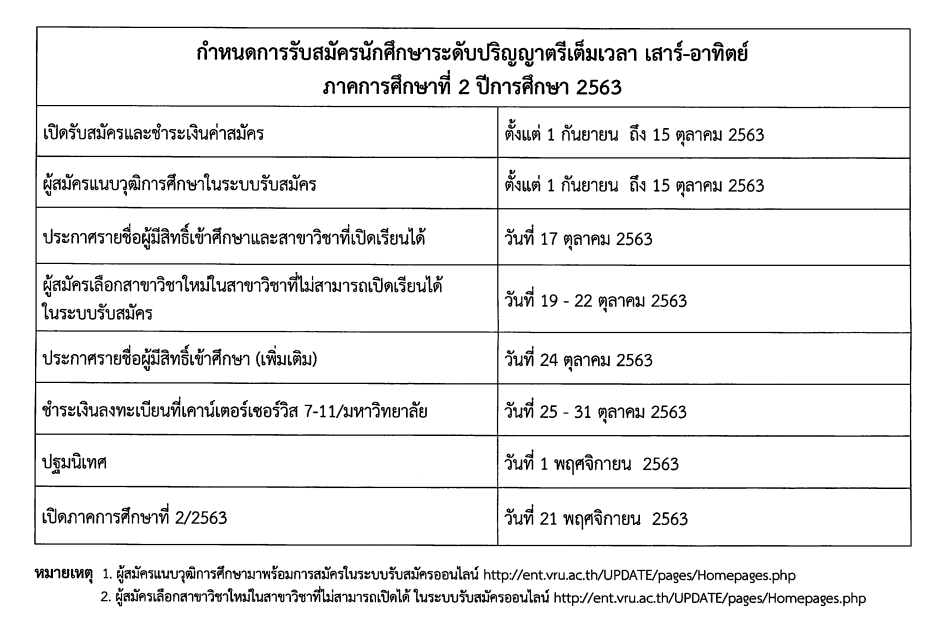
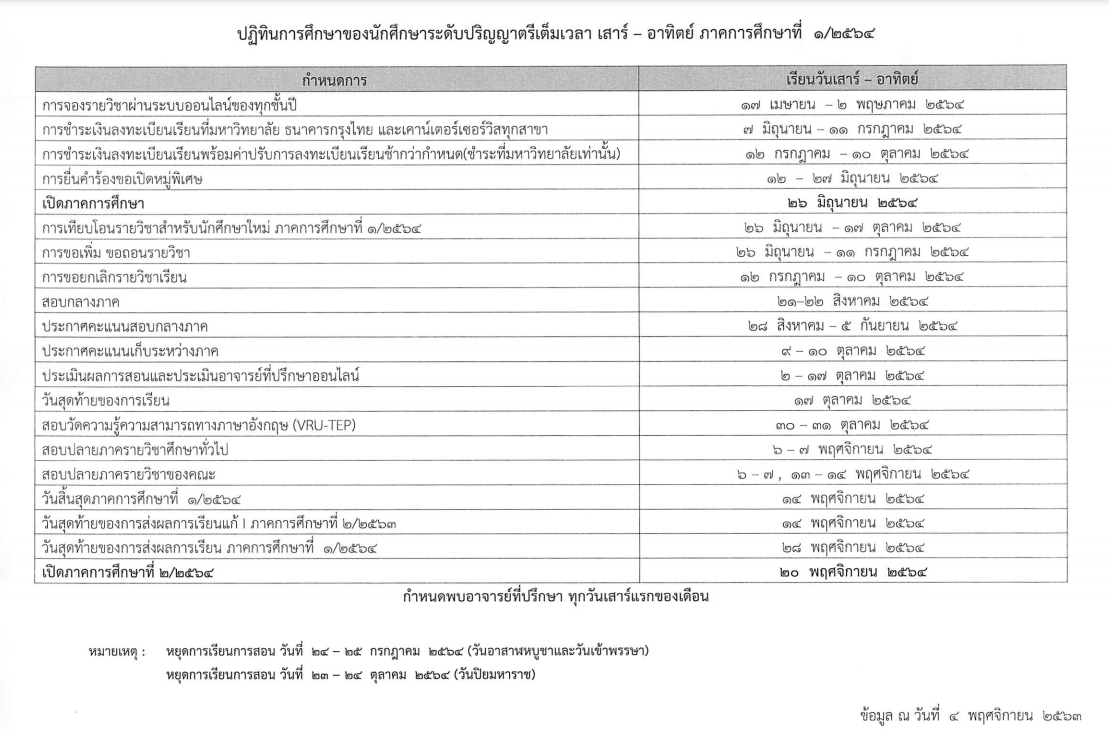
Update TCAS

Changed region(s): [[0.0305, 0.0299, 0.9758, 0.9874]]

diff --git a/tcas.php b/tcas.php
@@ -2,7 +2,7 @@
 $og_url = "http://cs.vru.ac.th/tcas.php";
 $og_type = "article";
 $og_title = "หลักสูตรวิทยาการคอมพิวเตอร์รับสมัครนักศึกษาปริญญาตรี";
-$og_description = "หลักสูตรวิทยาการคอมพิวเตอร์ คณะวิทยาศาสตร์และเทคโนโลยี มหาวิทยาลัยราชภัฏวไลยอลงกรณ์ ในพระบรมราชูปถัมภ์ รับสมัครนักศึกษาปริญญาตรีปีการศึกษา 64 สำหรับเรียนจันทร์-ศุกร์ และปีการศึกษา 63 เทอม 2 สำหรับเรียนเสาร์-อาทิตย์ ตั้งแต่วันนี้เป็นต้นไป  สนใจดูรายละเอียดและกรอกใบสมัครได้ที่นี่ สอบถามข้อมูลการรับสมัครเพิ่มเติม โทรด่วน. 083-138-0981 ";
+$og_description = "หลักสูตรวิทยาการคอมพิวเตอร์ คณะวิทยาศาสตร์และเทคโนโลยี มหาวิทยาลัยราชภัฏวไลยอลงกรณ์ ในพระบรมราชูปถัมภ์ รับสมัครนักศึกษาปริญญาตรีปีการศึกษา 64 สำหรับเรียนจันทร์-ศุกร์ และเรียนเสาร์-อาทิตย์ ตั้งแต่วันนี้เป็นต้นไป  สนใจดูรายละเอียดและกรอกใบสมัครได้ที่นี่ สอบถามข้อมูลการรับสมัครเพิ่มเติม โทรด่วน. 083-138-0981 ";
 $og_image = "http://cs.vru.ac.th/images/tcas/pr-2020-05-14.jpg";
 ?>
 
@@ -19,7 +19,7 @@ $og_image = "http://cs.vru.ac.th/images/tcas/pr-2020-05-14.jpg";
     
     <img class="img-thumbnail" src="images/tcas/pr-2020-05-14.jpg" width="100%" > 
     <p class="mt-4" style="font-size : 1.3rem;">
-        หลักสูตรวิทยาการคอมพิวเตอร์ คณะวิทยาศาสตร์และเทคโนโลยี มหาวิทยาลัยราชภัฏวไลยอลงกรณ์ ในพระบรมราชูปถัมภ์ รับสมัคร <strong>นักศึกษาปริญญาตรีปีการศึกษา 64 สำหรับเรียนจันทร์-ศุกร์ และปีการศึกษา 63 เทอม 2 สำหรับเรียนเสาร์-อาทิตย์</strong> ตั้งแต่วันนี้เป็นต้นไป  สนใจดูรายละเอียดและกรอกใบสมัครได้ที่นี่ สอบถามข้อมูลการรับสมัครเพิ่มเติม โทรด่วน. 083-138-0981 
+        หลักสูตรวิทยาการคอมพิวเตอร์ คณะวิทยาศาสตร์และเทคโนโลยี มหาวิทยาลัยราชภัฏวไลยอลงกรณ์ ในพระบรมราชูปถัมภ์ รับสมัคร <strong>นักศึกษาปริญญาตรีปีการศึกษา 64 สำหรับเรียนจันทร์-ศุกร์ และเรียนเสาร์-อาทิตย์</strong> ตั้งแต่วันนี้เป็นต้นไป  สนใจดูรายละเอียดและกรอกใบสมัครได้ที่นี่ สอบถามข้อมูลการรับสมัครเพิ่มเติม โทรด่วน. 083-138-0981 
     </p>
 </div>
 <div class="container-fluid bg-light p-5 mt-4" >
@@ -28,17 +28,18 @@ $og_image = "http://cs.vru.ac.th/images/tcas/pr-2020-05-14.jpg";
         <p style="font-size : 1.2rem;">ผ่านเว็บไซต์กลางของมหาวิทยาลัย : <a href="http://ent.vru.ac.th/">http://ent.vru.ac.th/</a></p>
         <ul style="list-style-type:none;">
             <li>ปริญญาตรีเรียนจันทร์ - ศุกร์ สมัครเรียนได้ตั้งแต่ <strong>วันนี้ - มิถุนายน 2564 </strong> <span class="text-danger"></span></li>
-            <li>ปริญญาตรีเรียนเสาร์ - อาทิตย์ สมัครเรียนได้ตั้งแต่ <strong>วันนี้ - 15 ตุลาคม 2563</strong>  <span class="text-success">(เปิดเทอม 21 พฤศจิกายน 2563)</span></li>
+            <li>ปริญญาตรีเรียนเสาร์ - อาทิตย์ สมัครเรียนได้ตั้งแต่ <strong>วันนี้ - มิถุนายน 2564</strong> </li>
+            <li> <span class="text-success">(เปิดเทอม มิถุนายน 2564)</span></li>
         </ul>
         <div class="text-center">
             <div class="py-2">
-                <a class="btn btn-primary" href="http://ent.vru.ac.th">กรอกใบสมัครเรียน</a>
+                <a class="btn btn-primary" href="http://ent.vru.ac.th"  target="_blank">กรอกใบสมัครเรียน <br>(ค่าสมัคร 300 บาท)</a> 
             </div>
             <div class="py-2">
-                <a class="" href="https://forms.gle/BxYpmgHTJ98gytQR9">ลิงค์สำรองกรอกใบสมัครเรียน (ของหลักสูตร)</a>
+                <a class="" href="https://forms.gle/4WYGkwpKAhX387Du6"  target="_blank">ลิงค์สำรองกรอกใบสมัครเรียนจันทร์ - ศุกร์ (ของคณะวิทย์, ฟรีค่าสมัคร)</a>
             </div>
-            <div class="py-2 d-none">
-                <a class="" href="https://forms.gle/4WYGkwpKAhX387Du6">ลิงค์สำรองกรอกใบสมัครเรียน (ของคณะวิทย์)</a>
+            <div class="py-2">
+                <a class="" href="https://forms.gle/BxYpmgHTJ98gytQR9"  target="_blank">ลิงค์สำรองกรอกใบสมัครเรียน (ของหลักสูตร, ค่าสมัคร 300 บาท)</a>
             </div>
         </div>
         
@@ -59,20 +60,21 @@ $og_image = "http://cs.vru.ac.th/images/tcas/pr-2020-05-14.jpg";
 
     <!-- START SPECIAL -->
     <div class="mt-4">
-        <h3 class="text-primary">ตารางการรับสมัครนักศึกษาปริญญาตรี เสาร์-อาทิตย์ 63 เทอม 2 </h3>
+        <h3 class="text-primary">ตารางการรับสมัครนักศึกษาปริญญาตรี เสาร์-อาทิตย์ 64 </h3>
         <ul>            
-            <li><strong>เปิดรับสมัครและชำระเงินค่าสมัครตั้งแต่ 1 กันยายน  ถึง 15 ตุลาคม 2563</strong></li>
-            <li>ผู้สมัครแนบวุฒิการศึกษาในระบบรับสมัครตั้งแต่ 1 กันยายน  ถึง 15 ตุลาคม 2563</li>
+            
+            <li><strong>เปิดรับสมัครและชำระเงินค่าสมัครตั้งแต่วันนี้  ถึง มิถุนายน 2564</strong></li>
+            <!-- <li>ผู้สมัครแนบวุฒิการศึกษาในระบบรับสมัครตั้งแต่ 1 กันยายน  ถึง 15 ตุลาคม 2563</li>
             <li>ประกาศรายชื่อผู้มีสิทธิ์เข้าศึกษาและสาขาวิชาที่เปิดเรียนได้วันที่ 17 ตุลาคม 2563</li>
             <li>ผู้สมัครเลือกสาขาวิชาใหม่ในสาขาวิชาที่ไม่สามารถเปิดเรียนได้ ในระบบรับสมัคร วันที่ 19 - 22 ตุลาคม 2563</li>
             <li>ประกาศรายชื่อผู้มีสิทธิ์เข้าศึกษา (เพิ่มเติม)วันที่ 24 ตุลาคม 2563</li>
-            <li> ชำระเงินลงทะเบียนที่เคาน์เตอร์เซอร์วิส 7-11/มหาวิทยาลัยวันที่ 25 - 31 ตุลาคม 2563</li>
-            <li>ปฐมนิเทศวันที่ 1 พฤศจิกายน  2563</li>
-            <li>เปิดภาคการศึกษาที่ 2/2563วันที่ 21 พฤศจิกายน  2563</li>          
+            <li> ชำระเงินลงทะเบียนที่เคาน์เตอร์เซอร์วิส 7-11/มหาวิทยาลัยวันที่ 25 - 31 ตุลาคม 2563</li> -->
+            <li>ปฐมนิเทศ มิถุนายน  2564</li>
+            <li>เปิดภาคการศึกษาที่ 1/2564 วันที่ 26 มิถุนายน 2564</li>          
         </ul>        
         <div class="text-center">
             <img class="img-thumbnail"  src="images/tcas/tcas64-schedule-special.png" width="100%" style="max-width:800px;" >
-            <p>อ้างอิง <a href="http://acad.vru.ac.th/about_acad/staff/news/2/news436.pdf">PDF ประกาศ เสาร์ - อาทิตย์</a></p>
+            <p>อ้างอิง <a href="http://acad.vru.ac.th/about_acad/staff/fileup_Schedule/2564_20201117-1.pdf" target="_blank">PDF ประกาศ เสาร์ - อาทิตย์</a></p>
     
         </div>
     </div>
@@ -129,13 +131,13 @@ $og_image = "http://cs.vru.ac.th/images/tcas/pr-2020-05-14.jpg";
                 <div><strong>หมายเหตุ* อัตราค่าธรรมเนียมภาคเรียนที่ 3 (ฤดูร้อน) ขึ้นอยู่กับหน่วยกิตที่ลง</strong></div>
             </div>
             <div class="py-2">
-                <a class="btn btn-primary" href="http://ent.vru.ac.th">กรอกใบสมัครเรียน</a>
+                <a class="btn btn-primary" href="http://ent.vru.ac.th"  target="_blank">กรอกใบสมัครเรียน <br>(ค่าสมัคร 300 บาท)</a> 
             </div>
             <div class="py-2">
-                <a class="" href="https://forms.gle/BxYpmgHTJ98gytQR9">ลิงค์สำรองกรอกใบสมัครเรียน (ของหลักสูตร)</a>
+                <a class="" href="https://forms.gle/4WYGkwpKAhX387Du6"  target="_blank">ลิงค์สำรองกรอกใบสมัครเรียนจันทร์ - ศุกร์ (ของคณะวิทย์, ฟรีค่าสมัคร)</a>
             </div>
-            <div class="py-2 d-none">
-                <a class="" href="https://forms.gle/4WYGkwpKAhX387Du6">ลิงค์สำรองกรอกใบสมัครเรียน (ของคณะวิทย์)</a>
+            <div class="py-2">
+                <a class="" href="https://forms.gle/BxYpmgHTJ98gytQR9"  target="_blank">ลิงค์สำรองกรอกใบสมัครเรียน (ของหลักสูตร, ค่าสมัคร 300 บาท)</a>
             </div>
         </div>
         
